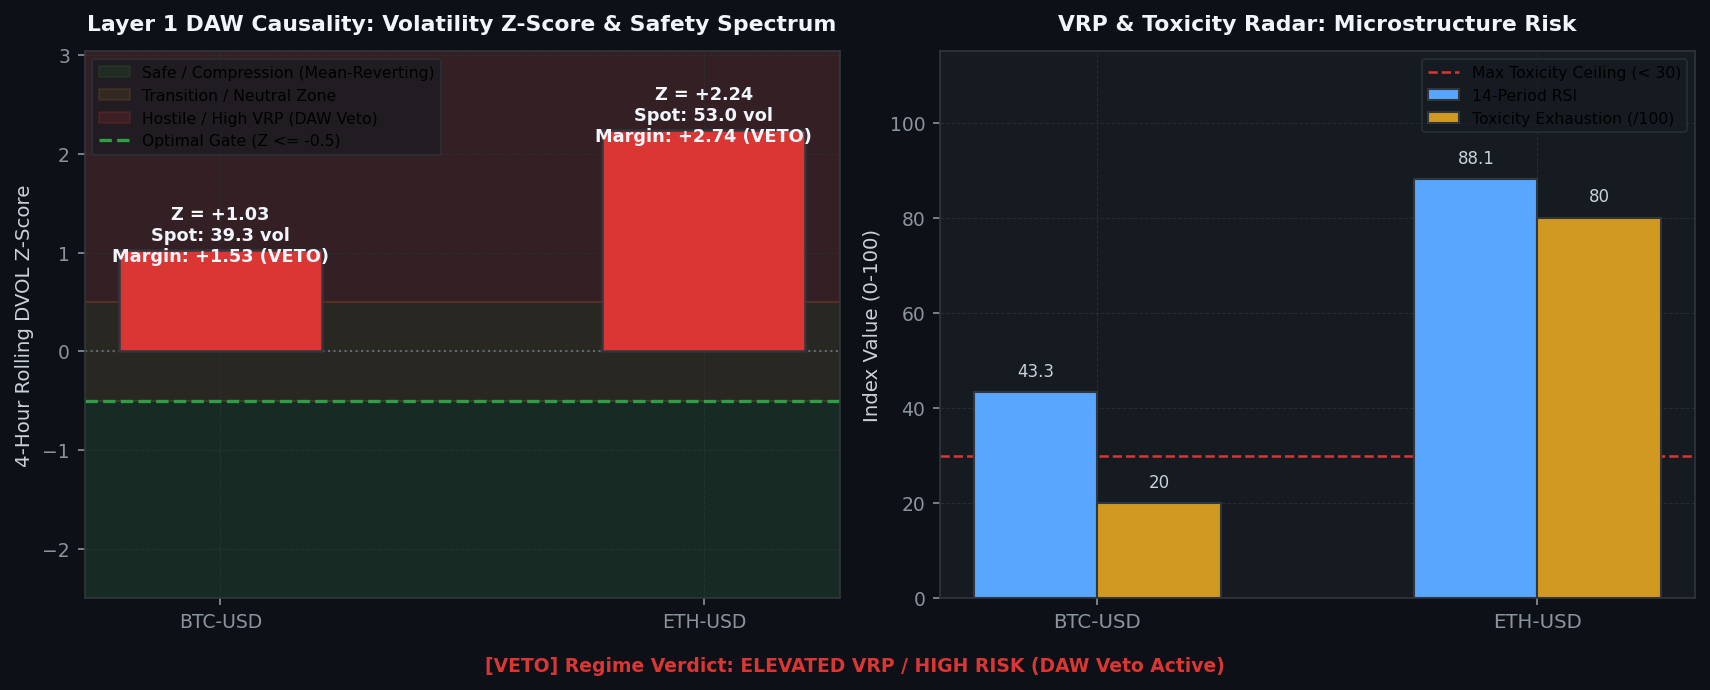
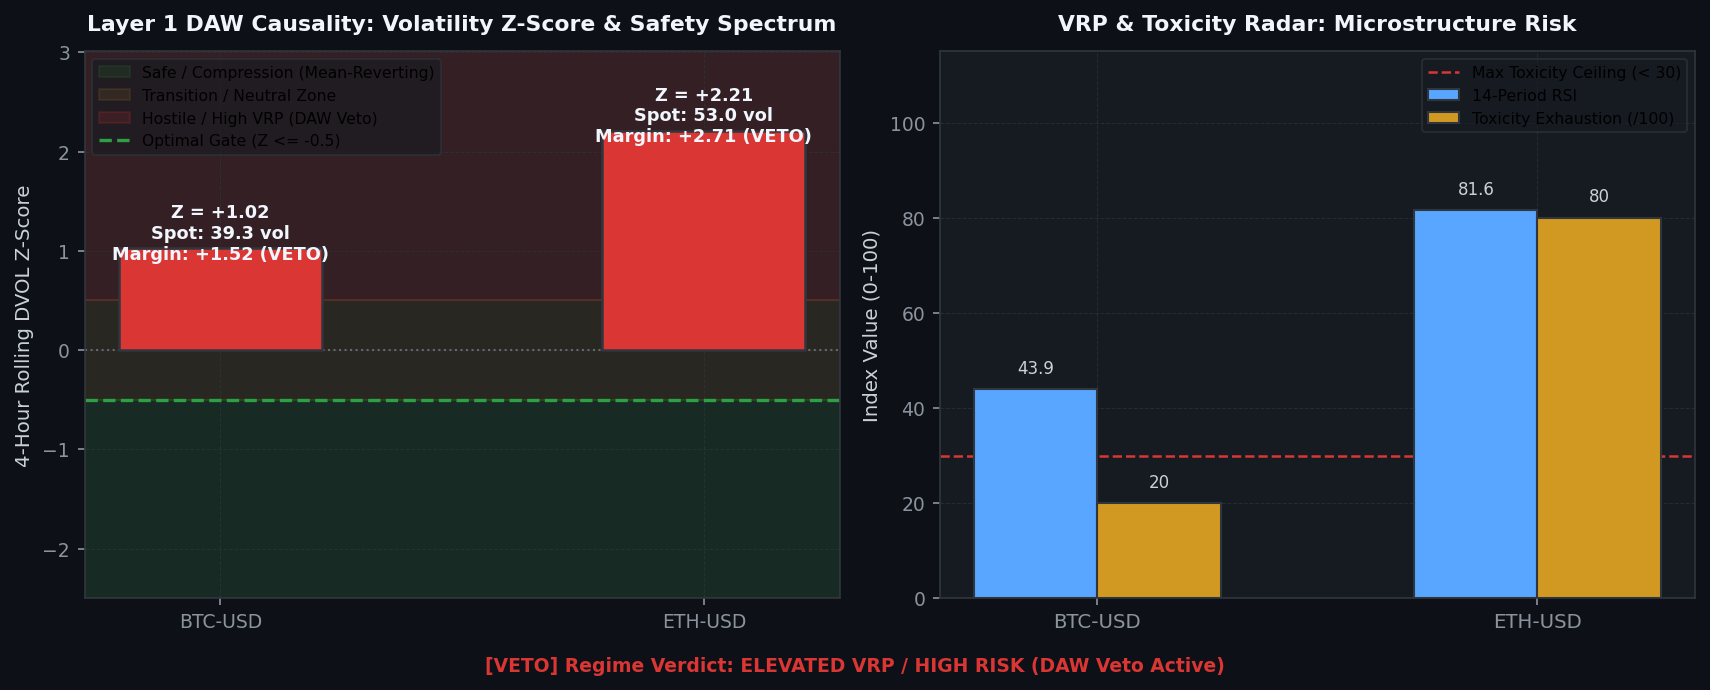
[coinbase] Hourly Status & Visual Intelligence Update: 2026-08-20 09:00:19

diff --git a/coinbase/data/hourly_status_report.md b/coinbase/data/hourly_status_report.md
@@ -3,7 +3,7 @@ layout: default
 ---
 
 # 🛡 Unified Trading System Hourly Status & Visual Intelligence
-> **Report Generated**: `2026-08-20 08:57:04 AM PDT (2026-08-20 15:57:04 UTC)`  
+> **Report Generated**: `2026-08-20 09:00:02 AM PDT (2026-08-20 16:00:02 UTC)`  
 > **System Health**: **🟡 DEGRADED / RESTRICTED** | **Win Rate**: `0.0%` | **Completed Trades**: `0`
 
 
@@ -16,12 +16,12 @@ Real-time Deribit implied volatility (DVOL) proxy tracking against mathematicall
 | Symbol | Proxy Oracle | Live Z-Score | Optimal Limit (YSP) | Safety Margin | Live VRP | Optimal VRP (YSP) | DAW Safety Verdict |
 | :--- | :--- | :--- | :--- | :--- | :--- | :--- | :--- |
 | `AVAX-USD` | DVOL_BTC | **+1.03** | **-0.50** | **+1.53** | **-46.69** | 5.0 | 🔴 DAW VETOED |
-| `ETH-USD` | DVOL_ETH | **+2.26** | **-0.50** | **+2.76** | **-33.44** | 5.0 | 🔴 DAW VETOED |
-| `ADA-USD` | DVOL_BTC | **+1.03** | **-0.50** | **+1.53** | **-47.09** | 5.0 | 🔴 DAW VETOED |
-| `DOGE-USD` | DVOL_BTC | **+1.03** | **-0.50** | **+1.53** | **-47.11** | 5.0 | 🔴 DAW VETOED |
+| `ETH-USD` | DVOL_ETH | **+2.24** | **-0.50** | **+2.74** | **-33.29** | 5.0 | 🔴 DAW VETOED |
+| `ADA-USD` | DVOL_BTC | **+1.03** | **-0.50** | **+1.53** | **-46.99** | 5.0 | 🔴 DAW VETOED |
+| `DOGE-USD` | DVOL_BTC | **+1.03** | **-0.50** | **+1.53** | **-48.38** | 5.0 | 🔴 DAW VETOED |
 | `BTC-USD` | DVOL_BTC | **+1.03** | **-0.50** | **+1.53** | **-46.81** | 5.0 | 🔴 DAW VETOED |
 | `LINK-USD` | DVOL_BTC | **+1.03** | **-0.50** | **+1.53** | **-46.97** | 5.0 | 🔴 DAW VETOED |
-| `SOL-USD` | DVOL_BTC | **+1.03** | **-0.50** | **+1.53** | **-47.15** | 5.0 | 🔴 DAW VETOED |
+| `SOL-USD` | DVOL_BTC | **+1.03** | **-0.50** | **+1.53** | **-46.99** | 5.0 | 🔴 DAW VETOED |
 
 
 
@@ -37,11 +37,11 @@ We hereby certify that the mission-critical algorithmic data assets uploaded by 
 
 | Status | Data Asset | Freshness / State | Details / Timestamp |
 | :---: | :--- | :--- | :--- |
-| ✅ | **Go-List JSON** | Fresh (15.23h old) | 08-19 17:43 |
-| ✅ | **TimesFM Forecasts** | Fresh (0.92h old) | 08-20 08:02 |
+| ✅ | **Go-List JSON** | Fresh (15.28h old) | 08-19 17:43 |
+| ✅ | **TimesFM Forecasts** | Fresh (0.97h old) | 08-20 08:02 |
 | ❌ | **Holding Times config** | STALE! (191.3h old) | Limit 168h |
-| ✅ | **BTC DVOL Cache** | Fresh (0.00h old) | 08-20 08:57 |
-| ✅ | **ETH DVOL Cache** | Fresh (0.00h old) | 08-20 08:57 |
+| ✅ | **BTC DVOL Cache** | Fresh (0.01h old) | 08-20 08:59 |
+| ✅ | **ETH DVOL Cache** | Fresh (0.01h old) | 08-20 08:59 |
 | ❌ | **Live Trading Telemetry** | STALE! (0.1h old) | Limit 0.05h |
 
 <br>
@@ -55,7 +55,7 @@ Layer-by-layer tick evaluation waterfall and asset-specific performance tracking
 
 | Funnel Filter Layer | Total Rejections | % of Rejections |
 | :--- | :--- | :--- |
-| Tier 1: Macro Volatility Tensor Gate (Omega_macro) | `3,093` | **100.0%** |
+| Tier 1: Macro Volatility Tensor Gate (Omega_macro) | `3,129` | **100.0%** |
 | Tier 2: Unified Transport & Directional Engine | `0` | **0.0%** |
 | Tier 3: Continuous Hawkes-SFGK Pricer (HAS-Pricer) | `0` | **0.0%** |
 | System: Asset Cooldown Active | `0` | **0.0%** |
@@ -93,14 +93,14 @@ Live balance sheet and open maker liquidity positions from Coinbase CDP.
 ## 4. 🤖 Foundation Model MLOps & Pipeline Orchestration
 Weekly Algorithmic Mega Cap selection, Zero-shot multi-step forward return forecasts, and VSTEF parameter grid search status.
 
-- **TimesFM Forecast DB**: 🟢 Updated 0.9h ago (2026-08-20 08:02 AM PDT)
+- **TimesFM Forecast DB**: 🟢 Updated 1.0h ago (2026-08-20 08:02 AM PDT)
 - **Last Weekly VSTEF Optimization**: `2026-08-05 09:22:38 AM PDT`
-- **Next Scheduled VSTEF Run**: `2026-08-23 07:00:00 PM PDT (Monday 02:00 UTC)` (Countdown: **82.0h (3d 10h 2m)**)
+- **Next Scheduled VSTEF Run**: `2026-08-23 07:00:00 PM PDT (Monday 02:00 UTC)` (Countdown: **82.0h (3d 9h 59m)**)
 - **Promoted Parameter Gates**: $Z_{DVOL} \le -0.5$ | Holding Horizon $= 12\text{h}$
 
 ### Algorithmic Mega Cap Selection
 - **Last Run (Confirmation)**: `Never`
-- **Next Scheduled Run**: `2026-08-23 06:00:00 PM PDT (Monday 01:00 UTC)` (Countdown: **81.0h (3d 9h 2m)**)
+- **Next Scheduled Run**: `2026-08-23 06:00:00 PM PDT (Monday 01:00 UTC)` (Countdown: **81.0h (3d 8h 59m)**)
 - **Selected Mega Cap Universe**: `Could not fetch active universe from EC2`
 
 
@@ -114,19 +114,19 @@ Visualizing the impact of the VSTEF (Volatility-Synchronized Stop-Tightening Exe
 ## 5. 🖥 Multi-Node Infrastructure & Watchdog Matrix
 ```text
 ================================================================================
-   🛡  SFGK FUNNEL GUARDIAN WATCHDOG (HFT ONLY) |  03:57:04 PM
-   CPU:  13.1%  |  MEM:   6.5% (14.4GB / 15.4GB Free)
+   🛡  SFGK FUNNEL GUARDIAN WATCHDOG (HFT ONLY) |  03:59:58 PM
+   CPU:  10.9%  |  MEM:   6.8% (14.4GB / 15.4GB Free)
 ================================================================================
 SERVICE              | PID      | STATUS          | RESTARTS | INFO
 --------------------------------------------------------------------------------
 L3 Consumer          | 1684044  | RUNNING         | -        | Continuous Websocket Feed
 Trader AVAX-USD      | 1688165  | RUNNING         | 13       | Evaluating Funnel/Polling Order
-Trader ETH-USD       | 1694765  | COOL-DOWN       | 38       | Next run in 4.7s
-Trader ADA-USD       | 1694778  | COOL-DOWN       | 25       | Next run in 9.8s
-Trader DOGE-USD      | 1694789  | COOL-DOWN       | 26       | Next run in 14.9s
+Trader ETH-USD       | 1697575  | COOL-DOWN       | 47       | Next run in 14.9s
+Trader ADA-USD       | 1697588  | RUNNING         | 34       | Evaluating Funnel/Polling Order
+Trader DOGE-USD      | 1697481  | COOL-DOWN       | 34       | Next run in 4.6s
 Trader BTC-USD       | 1691114  | RUNNING         | 14       | Evaluating Funnel/Polling Order
 Trader LINK-USD      | 1691455  | RUNNING         | 15       | Evaluating Funnel/Polling Order
-Trader SOL-USD       | 1694766  | COOL-DOWN       | 25       | Next run in 4.7s
+Trader SOL-USD       | 1697576  | COOL-DOWN       | 34       | Next run in 14.9s
 ================================================================================
 ```
 

diff --git a/coinbase/data/visual_intelligence.md b/coinbase/data/visual_intelligence.md
@@ -4,7 +4,7 @@ title: Visual Intelligence Gallery
 ---
 
 # 📈 Visual Intelligence Gallery
-> **Generated:** `2026-08-20 08:57:21`
+> **Generated:** `2026-08-20 09:00:19`
 > **[Return to Main Status Report](./hourly_status_report.html)**
 
 This page visualizes the internal states, market profiles, and decision criteria of the active **3-Tier Fused Decision Engine** across all layers.
